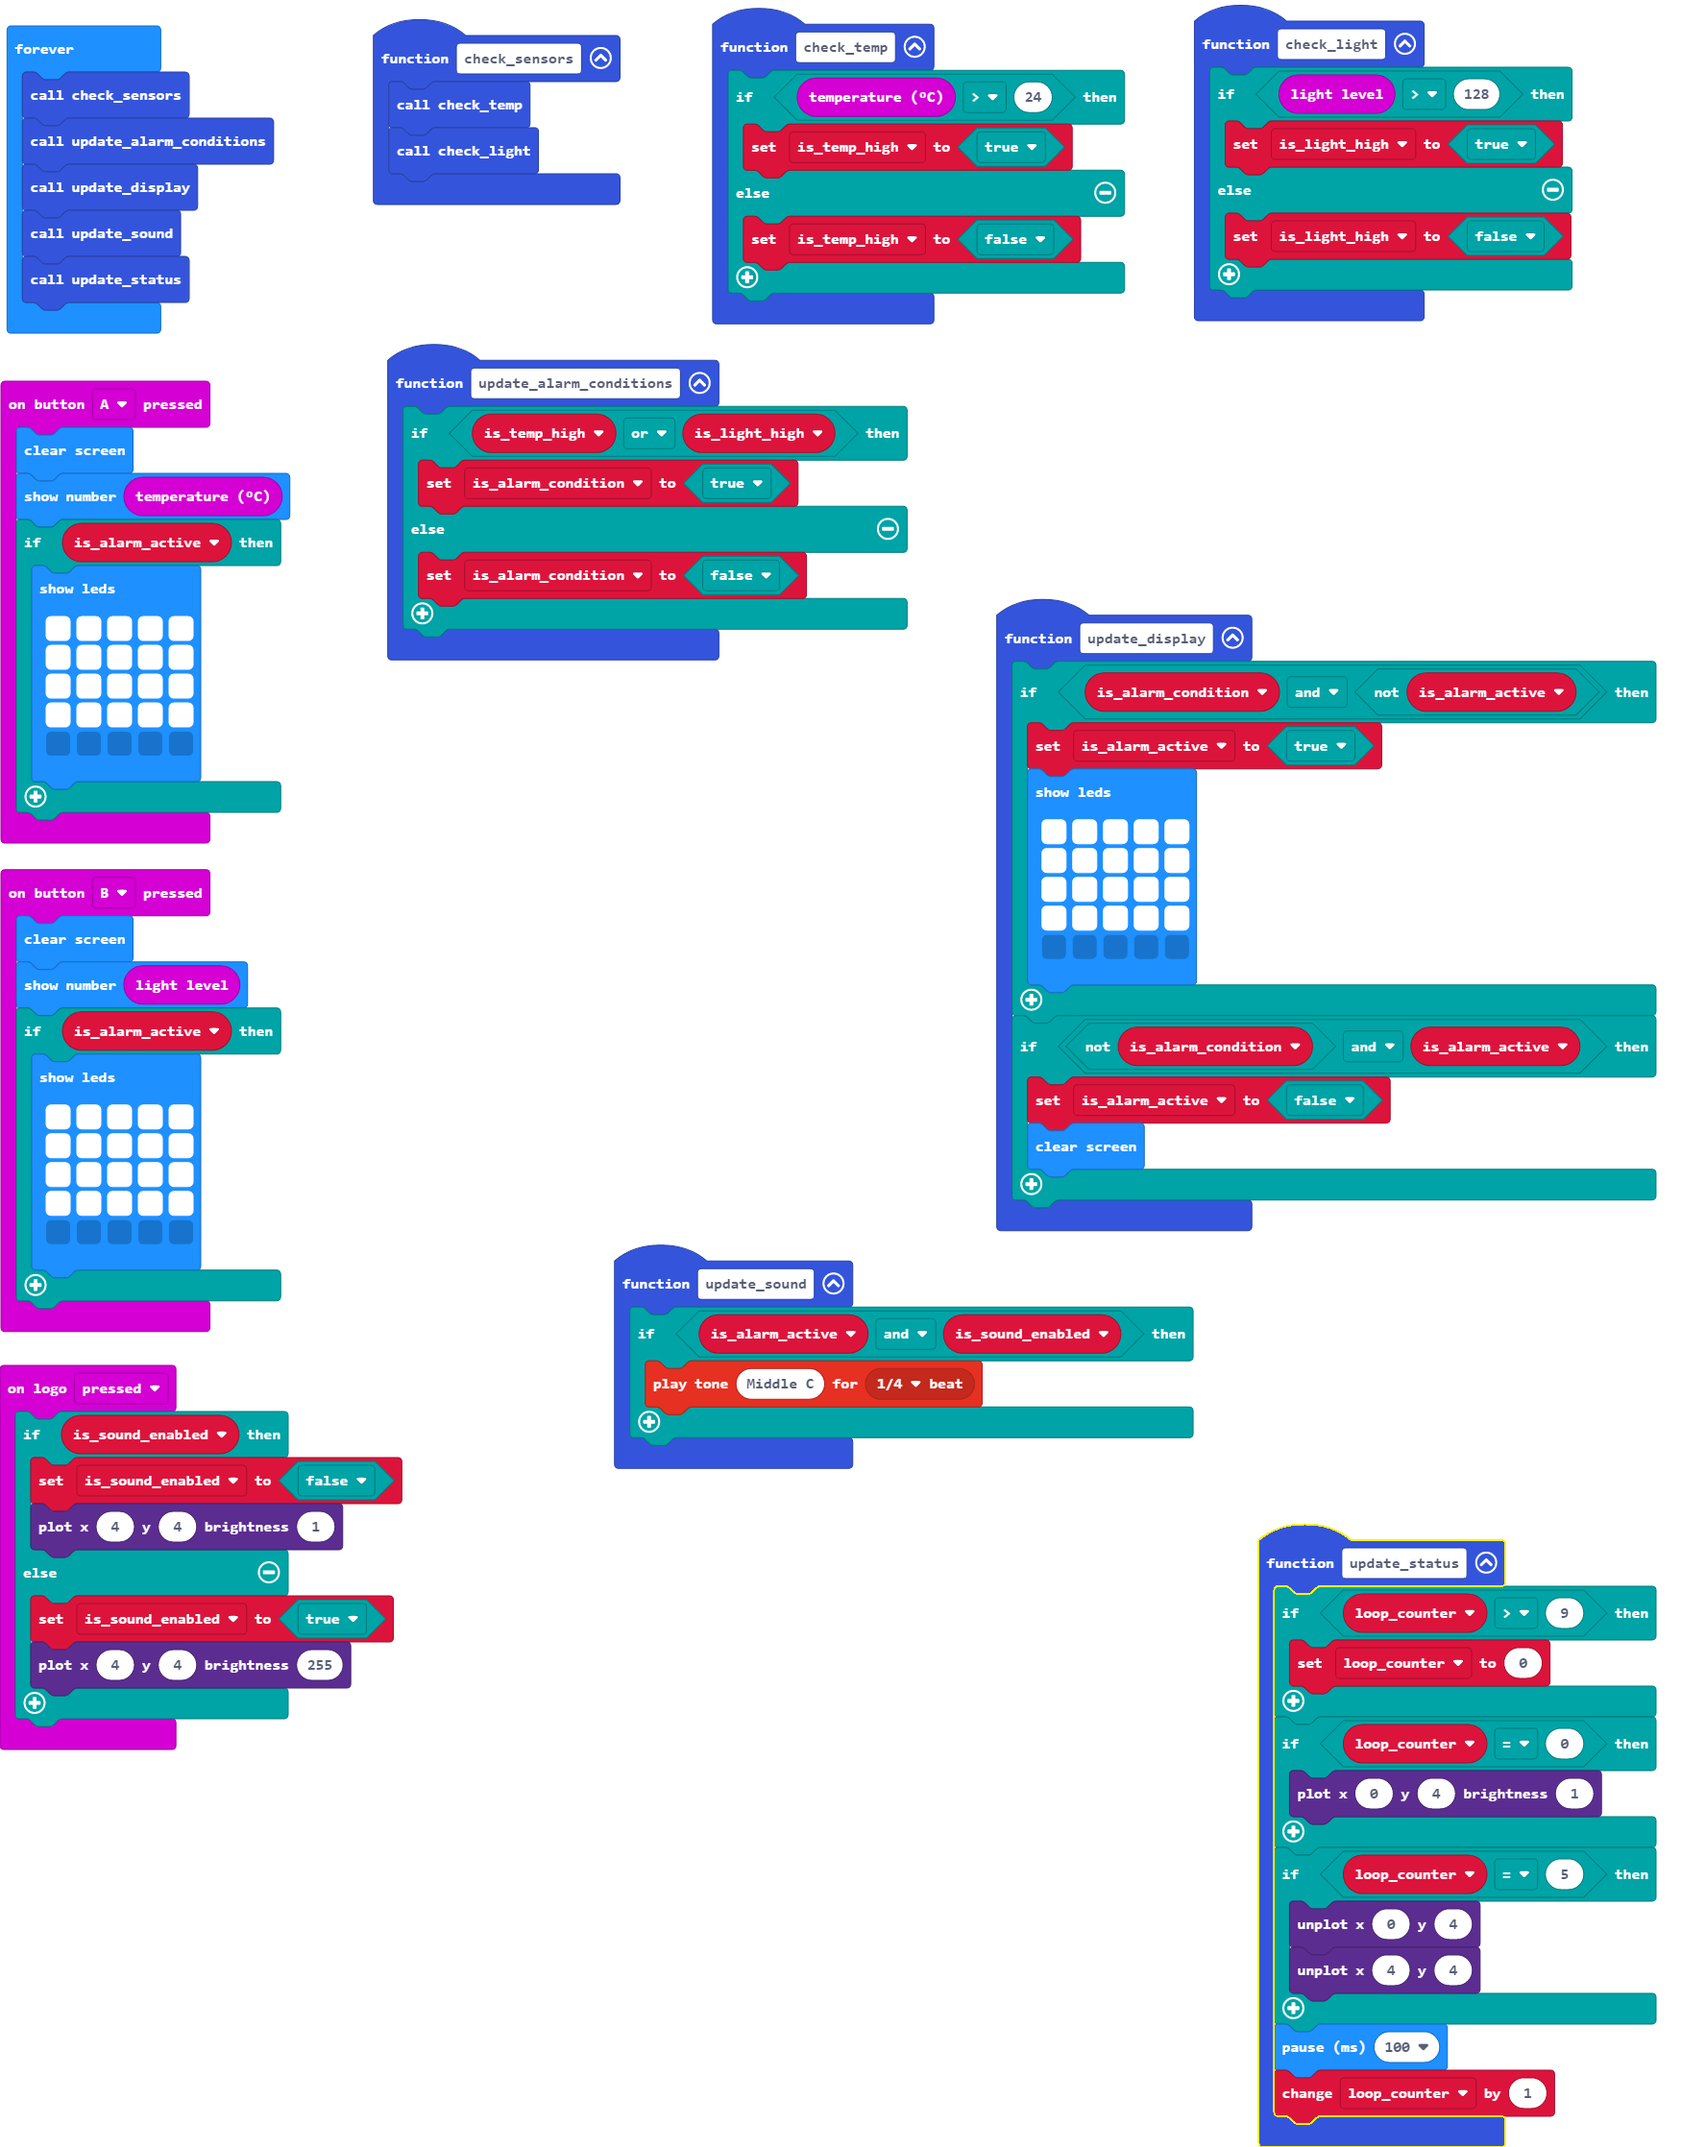
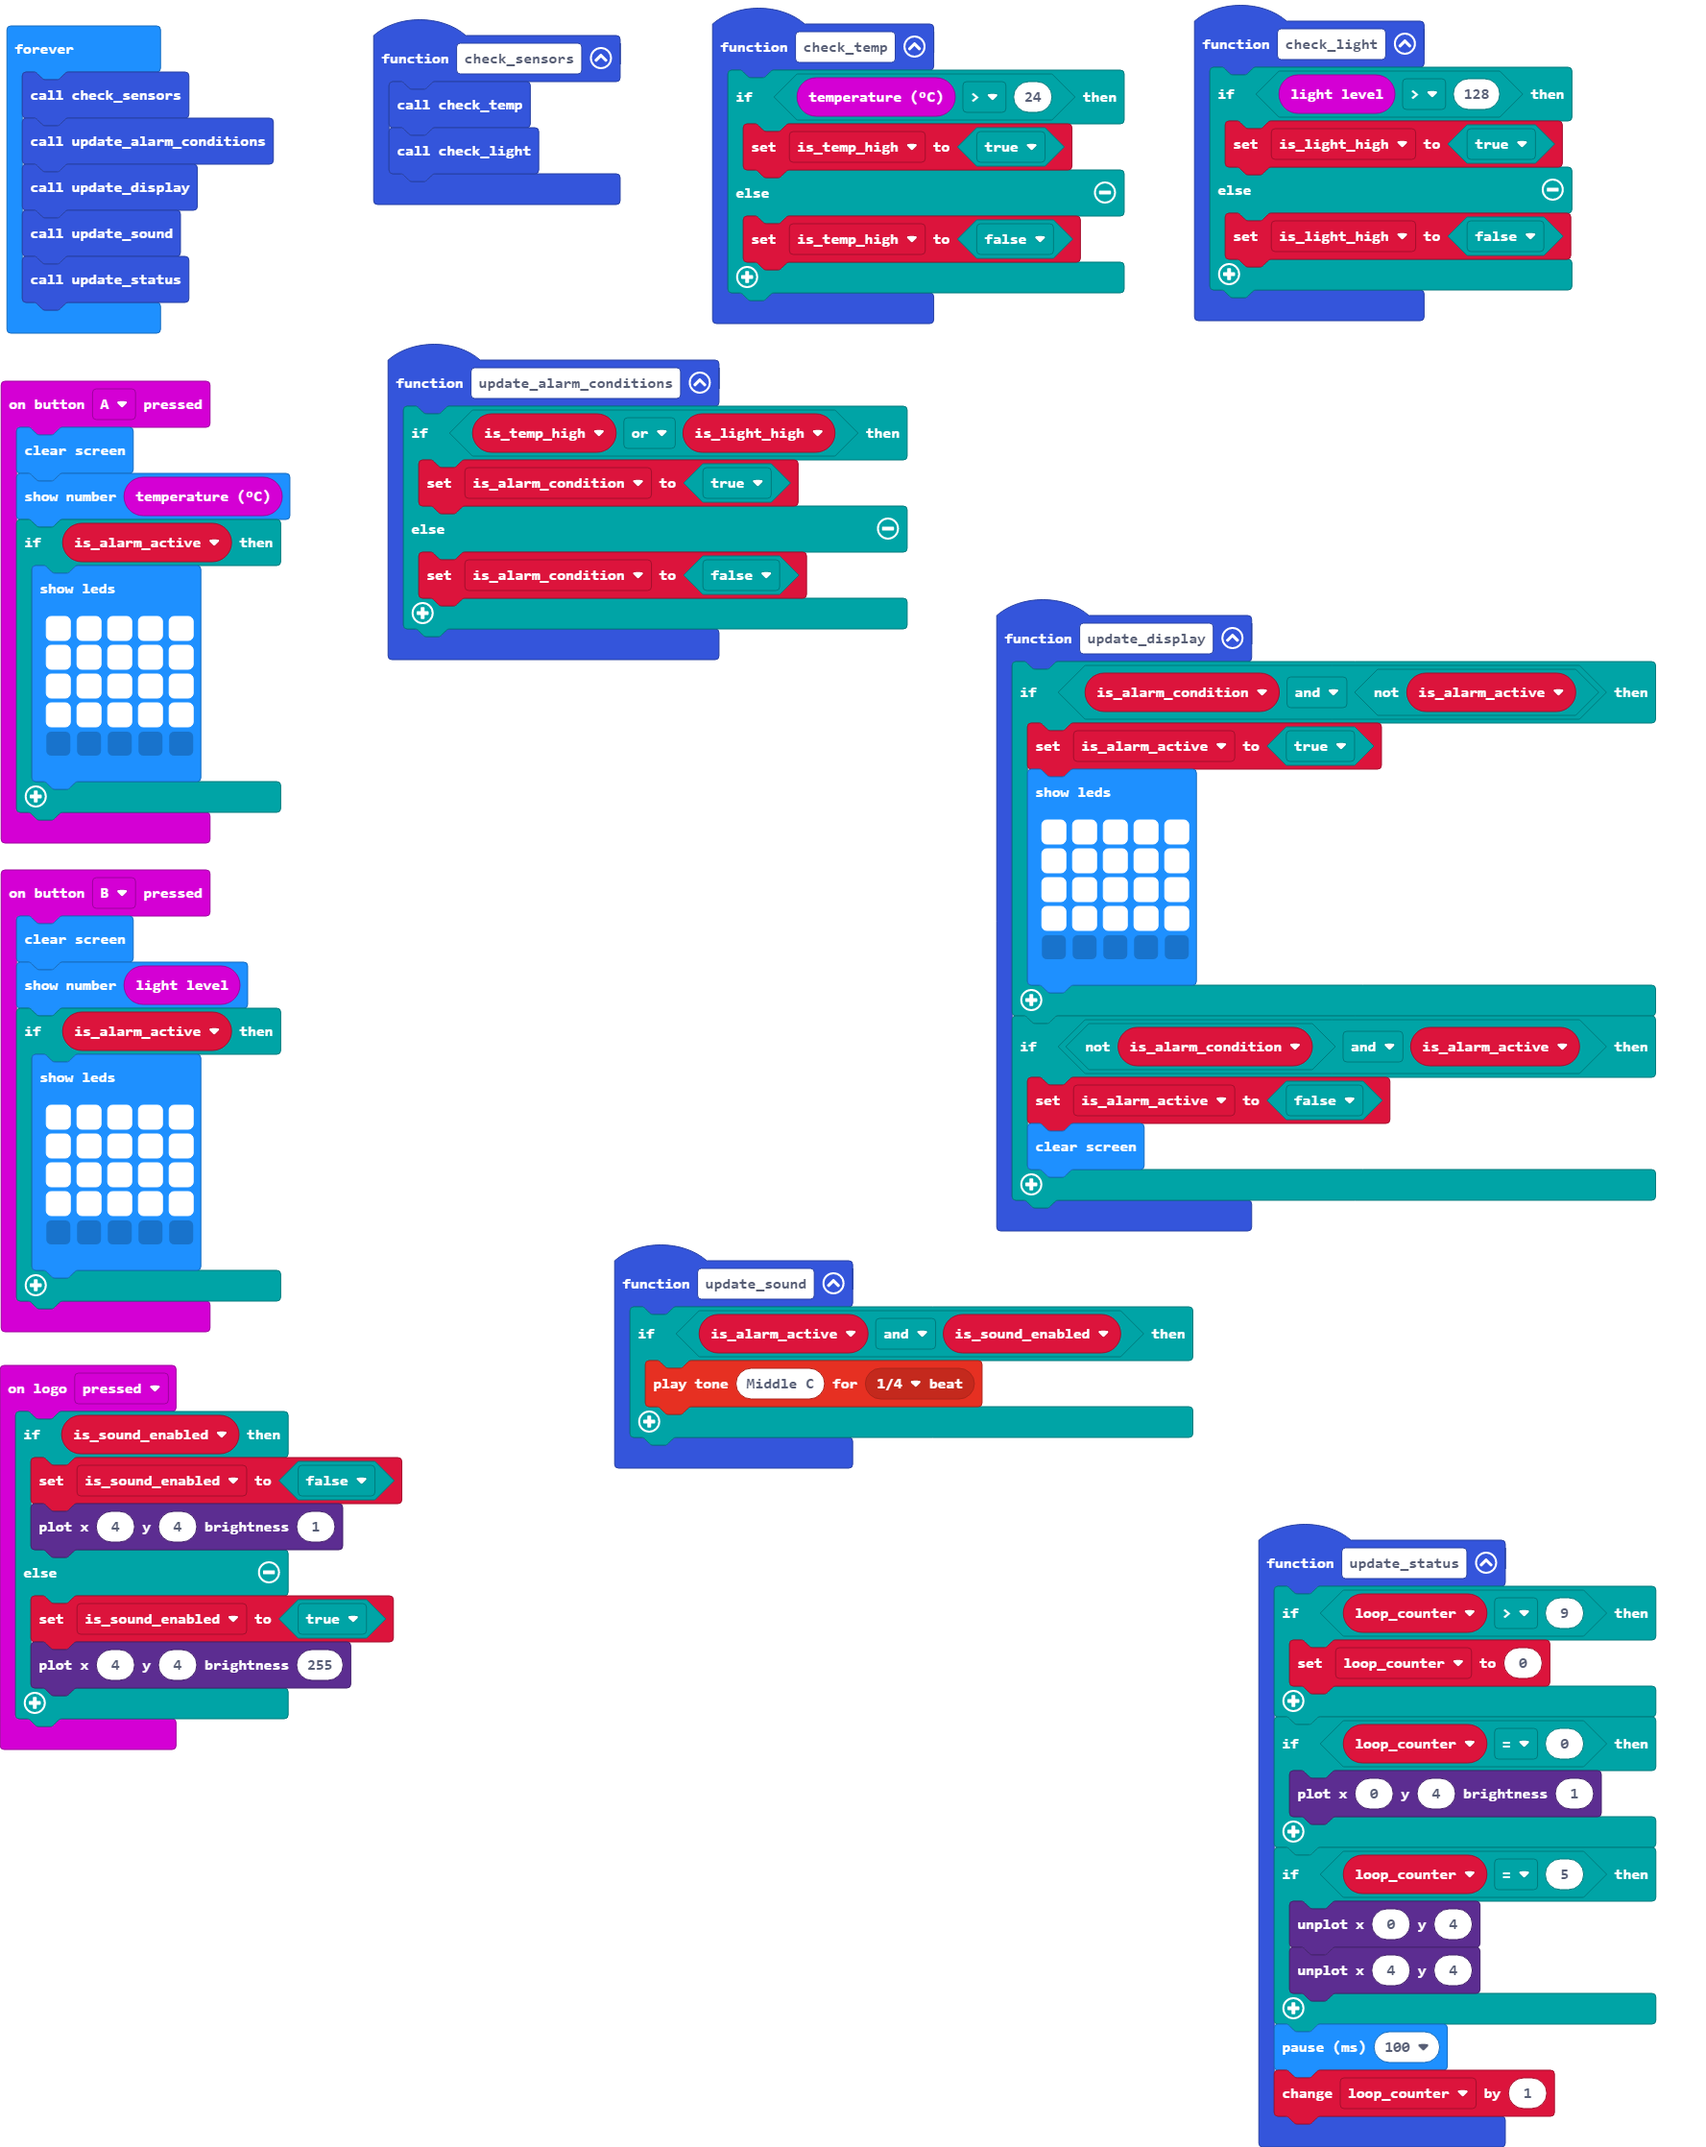
Update main.blocks, main.py

diff --git a/main.py b/main.py
@@ -1,12 +1,14 @@
-alarm_is_active = False
+is_alarm_active = False
+is_temp_high = False
 loop_counter = 0
-sound_is_enabled = False
-temp_is_high = False
+is_sound_enabled = False
+is_alarm_condition = False
+is_light_high = False
 
 def on_button_pressed_a():
     basic.clear_screen()
     basic.show_number(input.temperature())
-    if alarm_is_active:
+    if is_alarm_active:
         basic.show_leds("""
             # # # # #
                         # # # # #
@@ -16,6 +18,12 @@ def on_button_pressed_a():
         """)
 input.on_button_pressed(Button.A, on_button_pressed_a)
 
+def check_temp():
+    global is_temp_high
+    if input.temperature() > 24:
+        is_temp_high = True
+    else:
+        is_temp_high = False
 def update_status():
     global loop_counter
     if loop_counter > 9:
@@ -28,29 +36,16 @@ def update_status():
     basic.pause(100)
     loop_counter += 1
 def update_sound():
-    if alarm_is_active and sound_is_enabled:
+    if is_alarm_active and is_sound_enabled:
         music.play_tone(262, music.beat(BeatFraction.QUARTER))
 def check_sensors():
-    global temp_is_high
-    if input.temperature() > 24:
-        temp_is_high = True
-    else:
-        temp_is_high = False
+    check_temp()
+    check_light()
 
-def on_logo_pressed():
-    global sound_is_enabled
-    if sound_is_enabled:
-        sound_is_enabled = False
-        led.plot_brightness(4, 4, 1)
-    else:
-        sound_is_enabled = True
-        led.plot_brightness(4, 4, 255)
-input.on_logo_event(TouchButtonEvent.PRESSED, on_logo_pressed)
-
-def update_display():
-    global alarm_is_active
-    if temp_is_high and not (alarm_is_active):
-        alarm_is_active = True
+def on_button_pressed_b():
+    basic.clear_screen()
+    basic.show_number(input.light_level())
+    if is_alarm_active:
         basic.show_leds("""
             # # # # #
                         # # # # #
@@ -58,12 +53,48 @@ def update_display():
                         # # # # #
                         . . . . .
         """)
-    if not (temp_is_high) and alarm_is_active:
-        alarm_is_active = False
+input.on_button_pressed(Button.B, on_button_pressed_b)
+
+def on_logo_pressed():
+    global is_sound_enabled
+    if is_sound_enabled:
+        is_sound_enabled = False
+        led.plot_brightness(4, 4, 1)
+    else:
+        is_sound_enabled = True
+        led.plot_brightness(4, 4, 255)
+input.on_logo_event(TouchButtonEvent.PRESSED, on_logo_pressed)
+
+def update_display():
+    global is_alarm_active
+    if is_alarm_condition and not (is_alarm_active):
+        is_alarm_active = True
+        basic.show_leds("""
+            # # # # #
+                        # # # # #
+                        # # # # #
+                        # # # # #
+                        . . . . .
+        """)
+    if not (is_alarm_condition) and is_alarm_active:
+        is_alarm_active = False
         basic.clear_screen()
+def update_alarm_conditions():
+    global is_alarm_condition
+    if is_temp_high or is_light_high:
+        is_alarm_condition = True
+    else:
+        is_alarm_condition = False
+def check_light():
+    global is_light_high
+    if input.light_level() > 128:
+        is_light_high = True
+    else:
+        is_light_high = False
 
 def on_forever():
     check_sensors()
+    update_alarm_conditions()
     update_display()
     update_sound()
     update_status()
